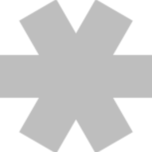
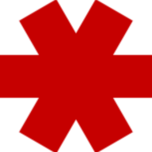
update

diff --git a/index.html b/index.html
@@ -23,8 +23,8 @@
     <meta name="theme-color" content="#ffffff">
     <style>
       @font-face {
-        font-family: Variety;
-        src: url(/static/variety-font.ttf) format(truetype);
+        font-family: 'Variety';
+        src: url('/static/variety-font.ttf') format('truetype');
       }
       *{
         margin: 0;
@@ -34,10 +34,11 @@
       html{
         font-size: 2vw;
         line-height: 1.2em;
+        background: #c6c6c6;
       }
       body{
-        background: #797979; /*2B7A44*/
-        color: #C60000;
+        background:#c6c6c6; /*2B7A44*/
+        color: #c60000;
         font-family: Variety, sans-serif;
         text-transform: lowercase;
       }
@@ -115,6 +116,7 @@
           height: auto;
           overflow-y: auto;
           margin-top: 4rem;
+          margin-bottom: 37vh;
         }
         .inner{
           position: fixed;
@@ -140,20 +142,20 @@
       <p><span class="asterisk"></span> performance, theatre, sound, live music, video, dance, readings, poetry</p><br>
       <p><span class="asterisk"></span> <span class="asterisk"></span> please read the information below beforehands</p><br><br>
       <p>
-        For the duration of the HfbK annual exhibition 2023 from the 9th to the 12th of february The Variety Room opens its doors in room 123 to showcase the unlimited ingenuity of performance based work of HfbK Students from all classes and departments.
+        For the duration of the HfbK annual exhibition 2023 from the 9th to the 12th of february The Variety Room opens its doors in room 123 to showcase performance based work of HfbK Students from all classes and departments.
+      </p>
+      <br>
+      <p>
+        Our curatorial duties will solely consist of creating the time table for the program and decorating the room.
       </p>
       <br><br>
       <p>
-        Our curatorial duties will solely consist of creating the time table for the program and decorating the room. Nothing is off the table, everyone is invited to embarrass themselves. The program should reflect the unregulated and non institutional spirit of most hfbk performance work.<br><br>
-        As an Arts University without any performance based class to attend or professor to turn to, the HfbK has become a breeding ground for its student body to find strange ways of expressing themselves.<br><br>
-        Experimental Music, Sound, Theater, Movement, Expression is being created all around the halls of Lerchenfeld 2 but with no dedicated space to call home during the annual exhibition.<br><br>
-        The Variety room shall be that space. An offering by students for students to express and try to bring to live theory performance based work for an audience to see.
+        The varietyroom offers a moody space, a basic stage of 2 by 3 meters, 2 spotlights, a beamer, 2 microphones, 2 chairs, a sound system and an 8 channel mixer with 6.25 audiojack connections. Please consult floorplan below for room layout.
       </p>
       <br><br>
-      <p>
-        The varietyroom offers a moody space, a basic stage of 2 by 3 meters, 2 spotlights, 2 microphones, 2 charis, a sound system and an 8 channel mixer with 6.25 audiojack connections. Please consult floorplan above for details.
-      </p>
-      <br><br>
+      <img src="/static/floorplan.svg">
+      <br>
+      <br>
       <p>
         Please include in your concept:
         <ul>
@@ -171,10 +173,10 @@
           </li>
         </ul>
       </p>
-      <br><br>
+      <br>
       <p>
         We are looking forward to your performance. Please send all required information to <a href="mailto:hi@varietyroom.de" >hi@varietyroom.de</a> by 28.01.2023.<br><br>
-        If you have any questions write us an email as well or hit up Apollonia, Leon or Johannes from the Angela Bulloch class.
+        If you have any questions write us an email as well or hit up Apollonia, Lion or Johannes from the Angela Bulloch class.
       </p>
     </main>
   </div>
